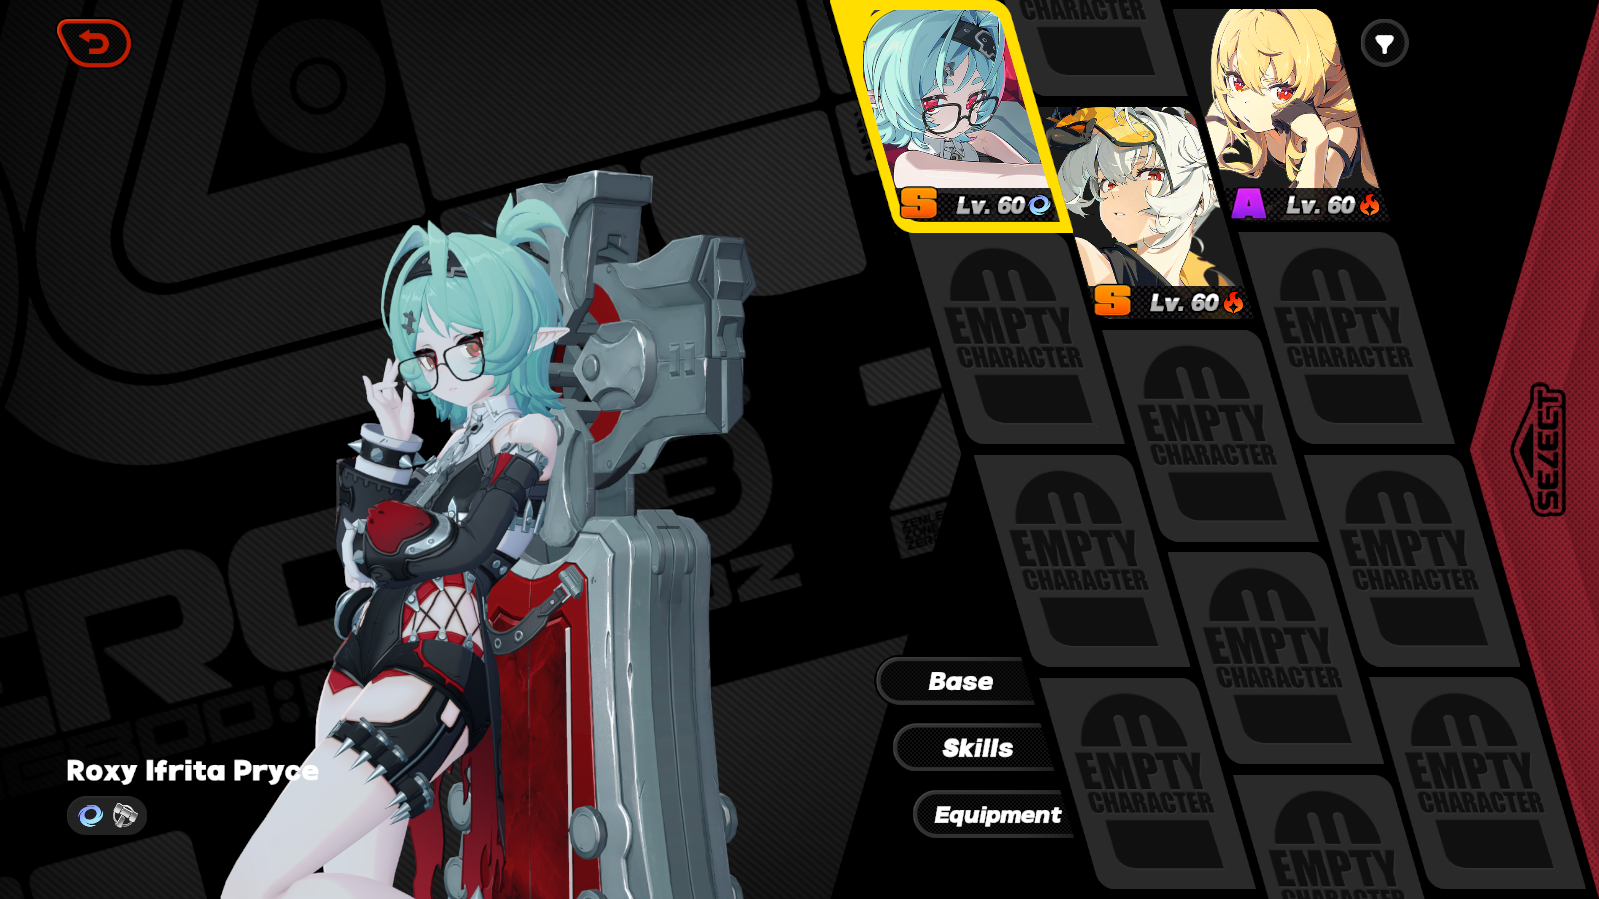
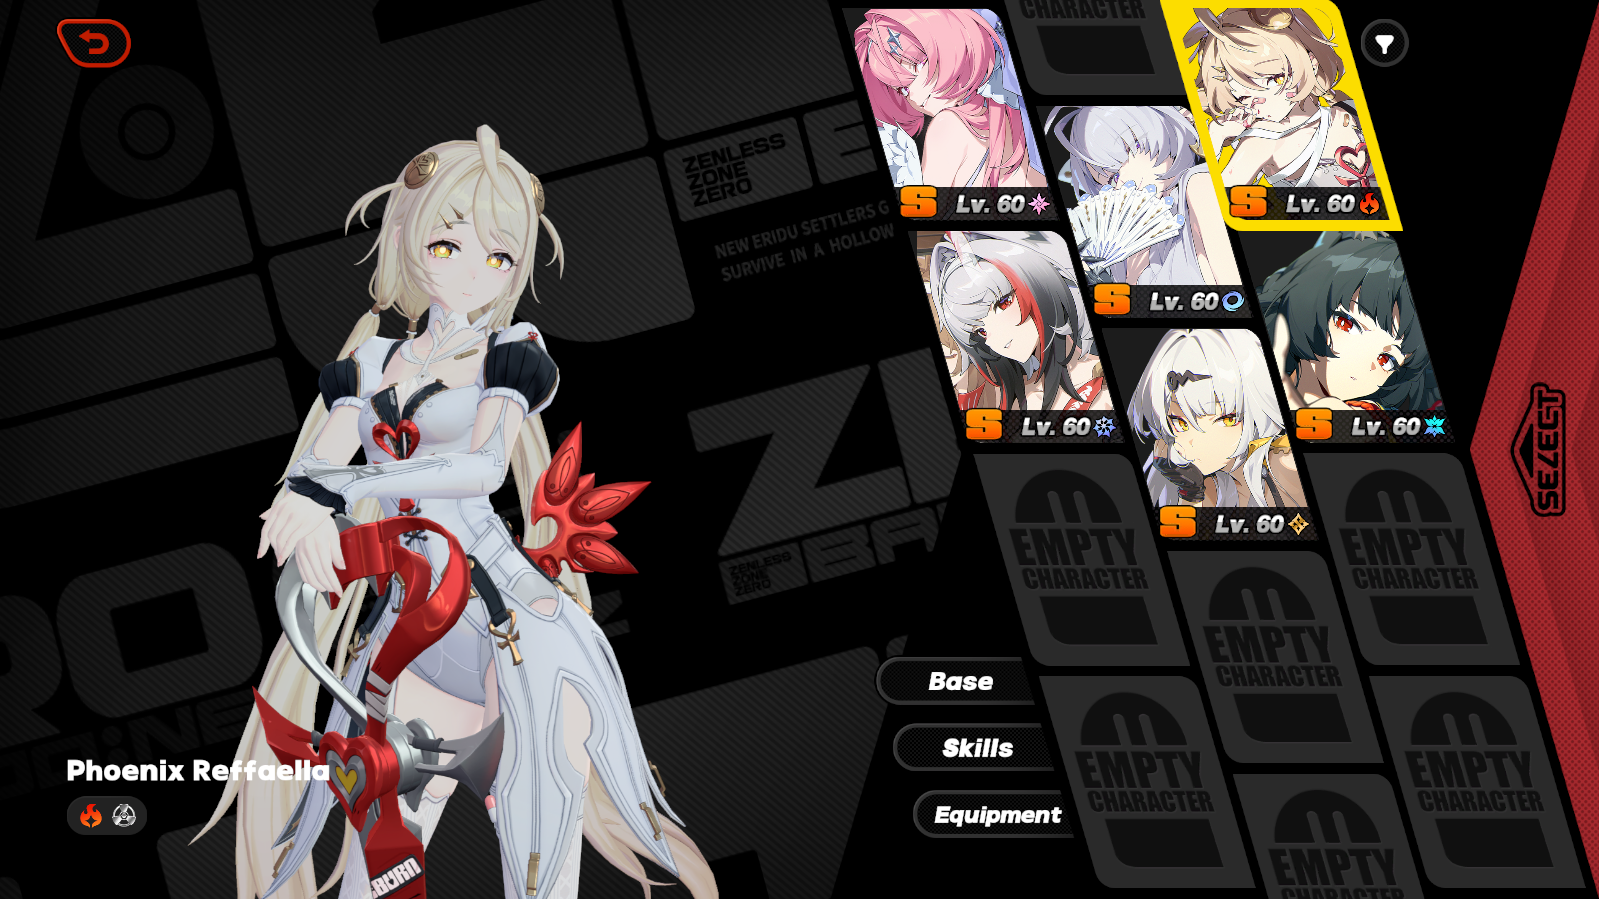
Add Phoenix and her two skins

diff --git a/config.py b/config.py
@@ -1,5 +1,5 @@
 MOD_NAME: str = "Mindscape Icons"
-MOD_VERSION: str = "3.3.1"
+MOD_VERSION: str = "3.3.2"
 
 # To update textures for a single agent, replace None with that agent's name
 CUR_AGENT: str | None = None
